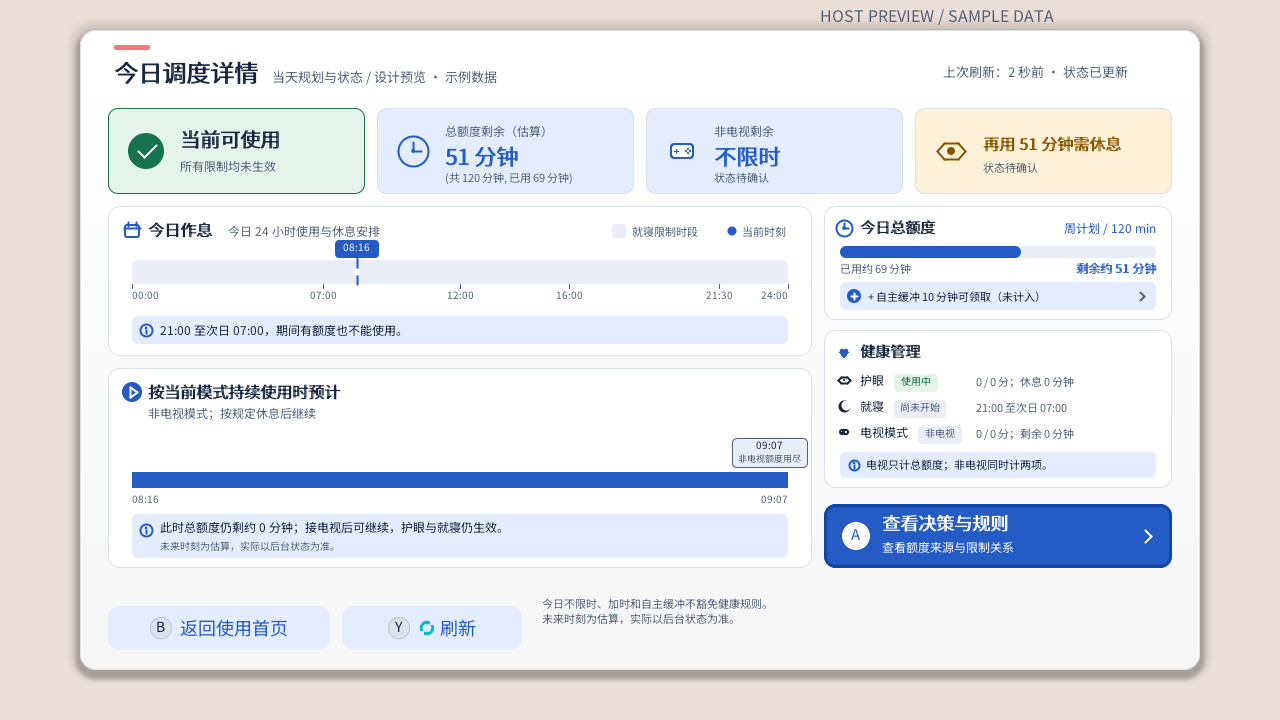
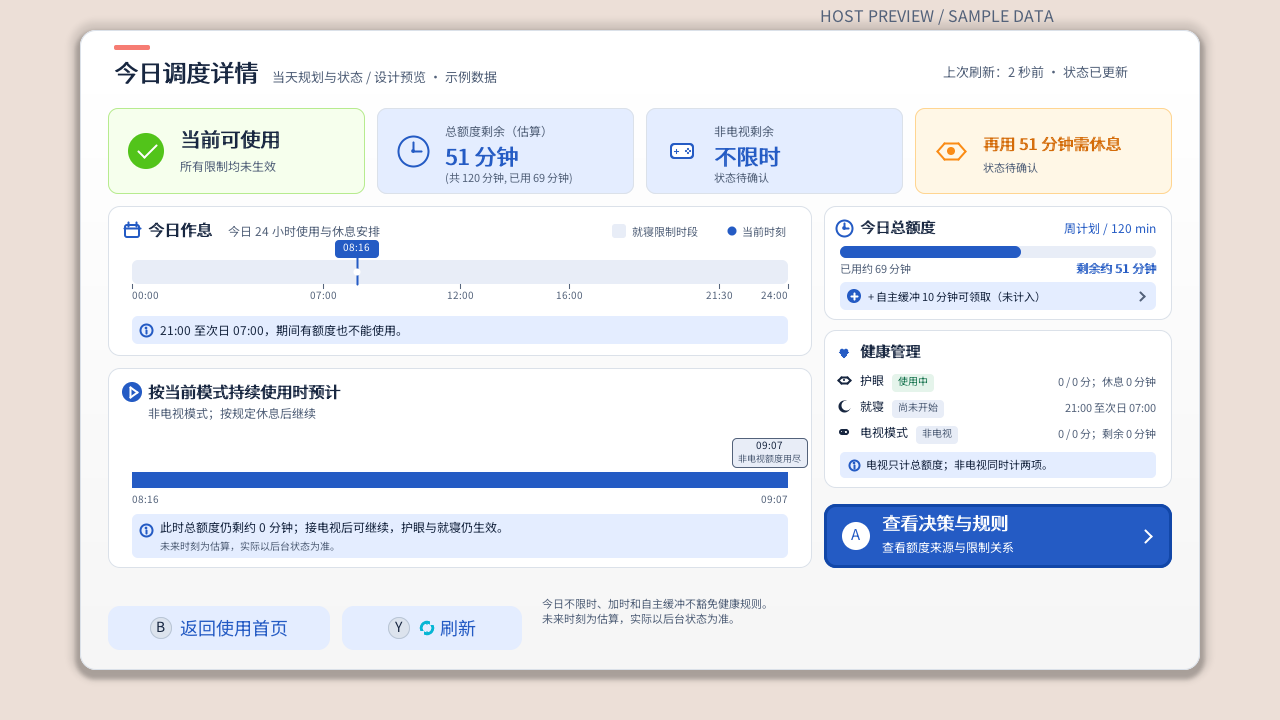
style(ui): 优化今日调度健康管理排版并微调状态配色
- 健康管理卡片支持胶囊自适应前置标题宽度，详细说明文本严格右对齐，消除重叠风险
- 调整卡片 1 当前可用与卡片 4 护眼提醒局部配色，提升与设计示意图的视觉一致性
- 升级持续使用预计推演轴休息段、悬浮气泡与图钉圆环色彩为明快暖橙
- 同步更新中英文 UI 预览图像并通过 devkitPro 全量打包与测试验证

Changed region(s): [[0.6875, 0.5194, 0.9062, 0.6111], [0.7188, 0.1833, 0.875, 0.2139], [0.0938, 0.1833, 0.125, 0.2444]]

diff --git a/companion/nro/ui_render_overlay_support.c b/companion/nro/ui_render_overlay_support.c
@@ -624,16 +624,18 @@ static void draw_today_plan(uint32_t *pixels, uint32_t stride, const PtcUiModel 
 {
     char text[384], value[128];
     bool is_avail = detail_available(model, p);
+    bool is_dark = (g_theme.resolved == PTC_UI_RESOLVED_DARK);
 
     /* 1. 顶部 4 项横排卡片 (y = 108, h = 86) */
     /* 1.1 卡片 0: 当前状态 */
     {
         UiRect c0 = {108, 108, 257, 86};
-        uint32_t c0_bg = is_avail ? UI_SUCCESS_SOFT : (p->active_reasons ? UI_DANGER_SOFT : UI_WARNING_SOFT);
-        uint32_t c0_bd = is_avail ? UI_SUCCESS : (p->active_reasons ? UI_DANGER : UI_WARNING);
+        uint32_t c0_bg = is_avail ? (is_dark ? 0x1B382B : 0xF6FFED) : (p->active_reasons ? UI_DANGER_SOFT : UI_WARNING_SOFT);
+        uint32_t c0_bd = is_avail ? (is_dark ? 0x274936 : 0xB7EB8F) : (p->active_reasons ? UI_DANGER : UI_WARNING);
+        uint32_t c0_fg = is_avail ? (is_dark ? 0x49AA19 : 0x52C41A) : c0_bd;
         fill_round_rect(pixels, stride, c0, 10, c0_bg);
         draw_rect_outline(pixels, stride, c0, 10, 1, c0_bd);
-        support_draw_checkmark(pixels, stride, c0.x + 38, c0.y + 43, 18, is_avail ? UI_SUCCESS : c0_bd, UI_ON_ACCENT);
+        support_draw_checkmark(pixels, stride, c0.x + 38, c0.y + 43, 18, c0_fg, UI_ON_ACCENT);
         detail_current(model, p, value, sizeof(value));
         draw_text_bold(pixels, stride, c0.x + 72, c0.y + 39, value, 20, UI_INK);
         draw_text(pixels, stride, c0.x + 72, c0.y + 63,
@@ -680,12 +682,15 @@ static void draw_today_plan(uint32_t *pixels, uint32_t stride, const PtcUiModel 
     /* 1.4 卡片 3: 护眼/连续可用提醒 */
     {
         UiRect c3 = {915, 108, 257, 86};
-        fill_round_rect(pixels, stride, c3, 10, UI_WARNING_SOFT);
-        draw_rect_outline(pixels, stride, c3, 10, 1, UI_BORDER);
-        support_draw_eye(pixels, stride, c3.x + 36, c3.y + 43, 16, UI_WARNING);
+        uint32_t c3_bg = is_dark ? 0x332211 : 0xFFF7E6;
+        uint32_t c3_bd = is_dark ? 0x593815 : 0xFFD591;
+        uint32_t c3_fg = is_dark ? 0xFFA940 : 0xFA8C16;
+        fill_round_rect(pixels, stride, c3, 10, c3_bg);
+        draw_rect_outline(pixels, stride, c3, 10, 1, c3_bd);
+        support_draw_eye(pixels, stride, c3.x + 36, c3.y + 43, 16, c3_fg);
         unsigned left_continuous = p->continuous_seconds > 0 ? (unsigned)(p->continuous_seconds / 60) : 0;
         snprintf(value, sizeof(value), ptc_ui_text(PTC_UI_T_DETAIL_EYE_CARE_NEED_REST_FMT), left_continuous);
-        draw_text_bold(pixels, stride, c3.x + 68, c3.y + 42, value, 16, UI_WARNING);
+        draw_text_bold(pixels, stride, c3.x + 68, c3.y + 42, value, 16, is_dark ? 0xFFD591 : 0xD46B08);
         if (model->eye_care_policy.enabled) {
             snprintf(text, sizeof(text), ptc_ui_text(PTC_UI_T_DETAIL_EYE_CARE_REST_SUB_FMT),
                      (unsigned)model->eye_care_used_minutes,
@@ -785,7 +790,8 @@ static void draw_today_plan(uint32_t *pixels, uint32_t stride, const PtcUiModel 
                 const PtcUiUsageSegment *seg = &p->segments[i];
                 int x = rail.x + (seg->start_second - p->now_second) * rail.width / range;
                 int end = rail.x + (seg->end_second - p->now_second) * rail.width / range;
-                fill_rect(pixels, stride, (UiRect){x, rail.y, end - x, rail.height}, seg->resting ? UI_WARNING : UI_ACCENT);
+                uint32_t seg_color = seg->resting ? (is_dark ? 0xFFA940 : 0xFA8C16) : UI_ACCENT;
+                fill_rect(pixels, stride, (UiRect){x, rail.y, end - x, rail.height}, seg_color);
 
                 /* 气泡标签 */
                 if (seg->resting) {
@@ -793,13 +799,16 @@ static void draw_today_plan(uint32_t *pixels, uint32_t stride, const PtcUiModel 
                     detail_time(seg->start_second, t1, sizeof(t1));
                     int bx = x;
                     UiRect bubble = {bx - 36, rail.y - 34, 72, 30};
-                    fill_round_rect(pixels, stride, bubble, 5, UI_WARNING_SOFT);
-                    draw_rect_outline(pixels, stride, bubble, 5, 1, UI_WARNING);
-                    draw_text_center(pixels, stride, (UiRect){bubble.x, bubble.y + 2, bubble.width, 14}, t1, 10, UI_WARNING);
+                    uint32_t b_bg = is_dark ? 0x332211 : 0xFFF7E6;
+                    uint32_t b_bd = is_dark ? 0x593815 : 0xFFD591;
+                    uint32_t b_fg = is_dark ? 0xFFA940 : 0xFA8C16;
+                    fill_round_rect(pixels, stride, bubble, 5, b_bg);
+                    draw_rect_outline(pixels, stride, bubble, 5, 1, b_bd);
+                    draw_text_center(pixels, stride, (UiRect){bubble.x, bubble.y + 2, bubble.width, 14}, t1, 10, b_fg);
                     char r_text[32];
                     snprintf(r_text, sizeof(r_text), ptc_ui_text(PTC_UI_T_DETAIL_SIM_REST_FMT), (unsigned)((seg->end_second - seg->start_second) / 60));
-                    draw_text_center(pixels, stride, (UiRect){bubble.x, bubble.y + 16, bubble.width, 14}, r_text, 10, UI_WARNING);
-                    support_fill_circle_mini(pixels, stride, (float)x, (float)(rail.y + rail.height / 2), 4.5f, UI_WARNING);
+                    draw_text_center(pixels, stride, (UiRect){bubble.x, bubble.y + 16, bubble.width, 14}, r_text, 10, b_fg);
+                    support_fill_circle_mini(pixels, stride, (float)x, (float)(rail.y + rail.height / 2), 4.5f, b_fg);
                     support_fill_circle_mini(pixels, stride, (float)x, (float)(rail.y + rail.height / 2), 2.0f, UI_PAGE);
 
                     /* 恢复节点 */
@@ -911,8 +920,10 @@ static void draw_today_plan(uint32_t *pixels, uint32_t stride, const PtcUiModel 
             else support_draw_controller(pixels, stride, c_health.x + 20, ry + 6, 7, UI_INK);
 
             draw_text(pixels, stride, c_health.x + 36, ry + 11, ptc_ui_text(h_titles[i]), 12, UI_INK);
-            int pill_x = (i == 2) ? (c_health.x + 94) : (c_health.x + 70);
-            int pill_w = (i == 1) ? 52 : 44;
+            int title_w = measure_text(ptc_ui_text(h_titles[i]), 12);
+            int pill_x = c_health.x + 36 + title_w + 8;
+            int pill_txt_w = measure_text(ptc_ui_text(h_tags[i]), 10);
+            int pill_w = pill_txt_w + 12;
             UiRect pill = {pill_x, ry, pill_w, 18};
             fill_round_rect(pixels, stride, pill, 4, h_tag_bgs[i]);
             draw_text_center(pixels, stride, pill, ptc_ui_text(h_tags[i]), 10, h_tag_colors[i]);
@@ -934,7 +945,9 @@ static void draw_today_plan(uint32_t *pixels, uint32_t stride, const PtcUiModel 
                          (unsigned)model->dock_policy.undocked_daily_minutes,
                          (unsigned)model->undocked_remaining_minutes);
             }
-            draw_text(pixels, stride, c_health.x + 152, ry + 12, h_desc, 11, UI_MUTED);
+            int desc_w = measure_text(h_desc, 11);
+            int desc_x = c_health.x + c_health.width - 16 - desc_w;
+            draw_text(pixels, stride, desc_x, ry + 12, h_desc, 11, UI_MUTED);
         }
 
         /* 底部感叹号提示条 */
